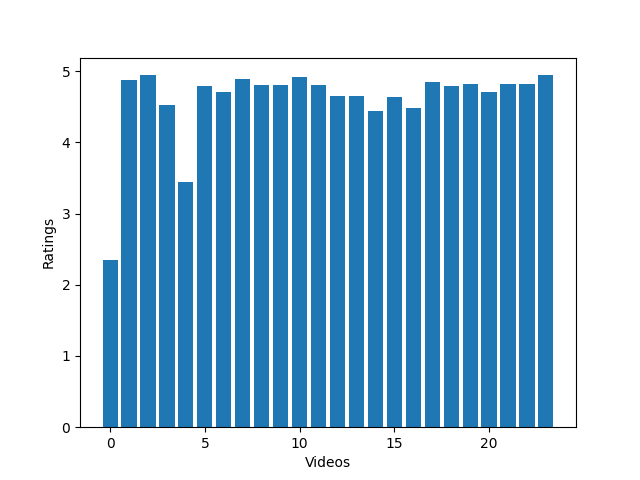
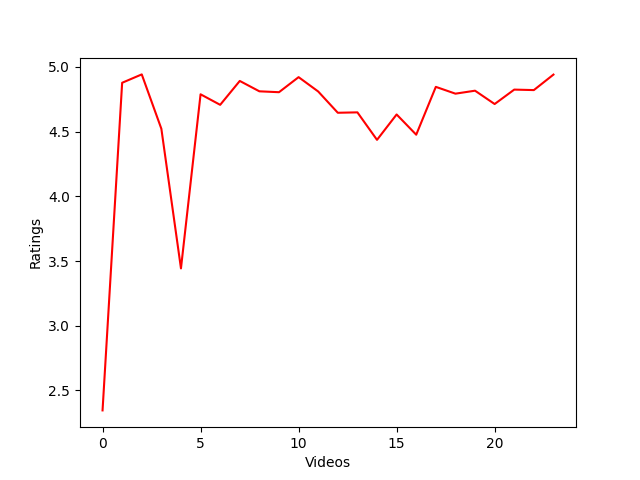
Added Tabs and Updated Graphs
Now all the tabs are working, they have their designated code segment area in main.py, and their background colors are also working. Also updated a bar graph to a line plot.

diff --git a/Main.py b/Main.py
@@ -519,54 +519,132 @@ class window :
         root = tk.Tk()
         root.geometry( "1280x720" )
         
+        
+        # Creating the notebook, that enables tabs
         my_notebook = ttk.Notebook( root )
         my_notebook.pack()
-            
-        my_frame1 = tk.Frame( my_notebook, width = 1280, height = 720, bg = "white" )
         
-        my_canvas = tk.Canvas( my_frame1, width = 1250, height = 720 )
-        my_canvas.pack( side = tk.LEFT, fill = tk.BOTH, expand = 1 )
+        # _____________Views Tab_________________#
         
-        my_scrollbar = ttk.Scrollbar( my_frame1, orient = tk.VERTICAL, command = my_canvas.yview )
+        base_frame_tab_1 = tk.Frame( my_notebook, width = 1280, height = 5000, bg = "#65A8E8" )
+        
+        # Adding a scrollbar to that tab
+        base_canvas_tab_1 = tk.Canvas( base_frame_tab_1, width = 1250, height = 5000 )
+        base_canvas_tab_1.pack( side = tk.LEFT, fill = tk.BOTH, expand = 1 )
+        my_scrollbar = ttk.Scrollbar( base_frame_tab_1, orient = tk.VERTICAL, command = base_canvas_tab_1.yview )
         my_scrollbar.pack( side = tk.RIGHT, fill = tk.Y )
+        base_canvas_tab_1.configure( yscrollcommand = my_scrollbar.set )
+        base_canvas_tab_1.bind( '<Configure>', lambda e : base_canvas_tab_1.configure( scrollregion = base_canvas_tab_1.bbox( "all" ) ) )
+        tab_frame_1 = tk.Frame( base_canvas_tab_1, width = 1280, height = 5000, bg = "#65A8E8" )
+        base_canvas_tab_1.create_window( (0, 0), window = tab_frame_1, anchor = "nw" )
+
+        #____Stuff in the tab___#
         
-        my_canvas.configure( yscrollcommand = my_scrollbar.set )
-        my_canvas.bind( '<Configure>', lambda e : my_canvas.configure( scrollregion = my_canvas.bbox( "all" ) ) )
+        bg_label_1 = tk.Label(tab_frame_1, text = 'Views Vs Videos Downloaded', bg = '#65A8E8', font = ("Calibre", 30))
+        bg_label_1.place(relx = 0.3, rely = 0.01)
+        views_graph_img = ImageTk.PhotoImage( Image.open( 'Assets/Graphs/views_bar_graph.png' ) )
+        views_graph_img_lbl = tk.Label( tab_frame_1, image = views_graph_img )
+        views_graph_img_lbl.place(relx = 0.25, rely = 0.03)
+
+        #___#
         
-        second_frame1 = tk.Frame( my_canvas, width = 1280, height = 720, bg = "white" )
+        # _______________Ratings Tab__________________#
         
-        my_canvas.create_window( (0, 0), window = second_frame1, anchor = "nw" )
-        
-        my_frame2 = tk.Frame( my_notebook, width = 1280, height = 720, bg = "white" )
-        
-        my_canvas2 = tk.Canvas( my_frame2, width = 1250, height = 720 )
-        my_canvas2.pack( side = tk.LEFT, fill = tk.BOTH, expand = 1 )
-        
-        my_scrollbar = ttk.Scrollbar( my_frame2, orient = tk.VERTICAL, command = my_canvas2.yview )
-        my_scrollbar.pack( side = tk.RIGHT, fill = tk.Y )
-        
-        my_canvas2.configure( yscrollcommand = my_scrollbar.set )
-        my_canvas2.bind( '<Configure>', lambda e : my_canvas2.configure( scrollregion = my_canvas2.bbox( "all" ) ) )
-        
-        second_frame2 = tk.Frame( my_canvas2, width = 1280, height = 720, bg = "white" )
-        
-        my_canvas2.create_window( (0, 0), window = second_frame2, anchor = "nw" )
-        
-        my_frame1.pack( fill = "both", expand = 1 )
-        my_frame2.pack( fill = "both", expand = 1 )
-        
-        my_notebook.add( my_frame1, text = "views" )
-        my_notebook.add( my_frame2, text = "ratings" )
+        base_frame_tab_2 = tk.Frame( my_notebook, width = 1280, height = 5000, bg = "#65A8E8" )
     
+        # Adding scrollbar to that tab
+        base_canvas_tab_2 = tk.Canvas( base_frame_tab_2, width = 1250, height = 5000 )
+        base_canvas_tab_2.pack( side = tk.LEFT, fill = tk.BOTH, expand = 1 )
+        my_scrollbar = ttk.Scrollbar( base_frame_tab_2, orient = tk.VERTICAL, command = base_canvas_tab_2.yview )
+        my_scrollbar.pack( side = tk.RIGHT, fill = tk.Y )
+        base_canvas_tab_2.configure( yscrollcommand = my_scrollbar.set )
+        base_canvas_tab_2.bind( '<Configure>', lambda e : base_canvas_tab_2.configure( scrollregion = base_canvas_tab_2.bbox( "all" ) ) )
+        tab_frame_2 = tk.Frame( base_canvas_tab_2, width = 1280, height = 5000, bg = "#65A8E8" )
+        base_canvas_tab_2.create_window( (0, 0), window = tab_frame_2, anchor = "nw" )
+
+        # ____Stuff in the tab___#
         
-        views_graph_img = ImageTk.PhotoImage(Image.open('Assets/Graphs/views_bar_graph.png'))
-        views_graph_img_lbl = tk.Label(second_frame1, image = views_graph_img)
-        views_graph_img_lbl.grid(row =0, column = 0, padx = 100, pady = 50)
+        bg_label_2 = tk.Label(tab_frame_2, text = 'Ratings Vs Videos Downloaded', bg = '#65A8E8', font = ("Calibre", 30))
+        bg_label_2.place(relx = 0.3, rely = 0.01)
+        ratings_graph_img = ImageTk.PhotoImage( Image.open( 'Assets/Graphs/ratings_bar_graph.png' ) )
+        ratings_graph_img_lbl = tk.Label( tab_frame_2, image = ratings_graph_img )
+        ratings_graph_img_lbl.place(relx = 0.25, rely = 0.03)
+
+        # ___#
+
+
+        # _______________Tab 3__________________#
         
-        ratings_graph_img = ImageTk.PhotoImage(Image.open('Assets/Graphs/ratings_bar_graph.png'))
-        ratings_graph_img_lbl = tk.Label(second_frame2, image = ratings_graph_img)
-        ratings_graph_img_lbl.grid(row =0, column = 0, padx = 100, pady = 50)
+        base_frame_tab_3 = tk.Frame( my_notebook, width = 1280, height = 5000, bg = "#65A8E8" )
+    
+        # Adding scrollbar to that tab
+        base_canvas_tab_3 = tk.Canvas( base_frame_tab_3, width = 1250, height = 5000 )
+        base_canvas_tab_3.pack( side = tk.LEFT, fill = tk.BOTH, expand = 1 )
+        my_scrollbar = ttk.Scrollbar( base_frame_tab_3, orient = tk.VERTICAL, command = base_canvas_tab_3.yview )
+        my_scrollbar.pack( side = tk.RIGHT, fill = tk.Y )
+        base_canvas_tab_3.configure( yscrollcommand = my_scrollbar.set )
+        base_canvas_tab_3.bind( '<Configure>', lambda e : base_canvas_tab_3.configure( scrollregion = base_canvas_tab_3.bbox( "all" ) ) )
+        tab_frame_3 = tk.Frame( base_canvas_tab_3, width = 1280, height = 5000, bg = "#65A8E8" )
+        base_canvas_tab_3.create_window( (0, 0), window = tab_frame_3, anchor = "nw" )
+
+        # ____Stuff in the tab___#
+
+        # ___#
+
+
+        # _______________Tab 4__________________#
         
+        base_frame_tab_4 = tk.Frame( my_notebook, width = 1280, height = 5000, bg = "#65A8E8" )
+    
+        # Adding scrollbar to that tab
+        base_canvas_tab_4 = tk.Canvas( base_frame_tab_4, width = 1250, height = 5000 )
+        base_canvas_tab_4.pack( side = tk.LEFT, fill = tk.BOTH, expand = 1 )
+        my_scrollbar = ttk.Scrollbar( base_frame_tab_4, orient = tk.VERTICAL, command = base_canvas_tab_4.yview )
+        my_scrollbar.pack( side = tk.RIGHT, fill = tk.Y )
+        base_canvas_tab_4.configure( yscrollcommand = my_scrollbar.set )
+        base_canvas_tab_4.bind( '<Configure>', lambda e : base_canvas_tab_4.configure( scrollregion = base_canvas_tab_4.bbox( "all" ) ) )
+        tab_frame_4 = tk.Frame( base_canvas_tab_4, width = 1280, height = 5000, bg = "#65A8E8" )
+        base_canvas_tab_4.create_window( (0, 0), window = tab_frame_4, anchor = "nw" )
+
+        # ____Stuff in the tab___#
+
+        # ___#
+
+
+        # _______________Tab 5__________________#
+
+        base_frame_tab_5 = tk.Frame( my_notebook, width = 1280, height = 5000, bg = "#65A8E8" )
+    
+        # Adding scrollbar to that tab
+        base_canvas_tab_5 = tk.Canvas( base_frame_tab_5, width = 1250, height = 5000 )
+        base_canvas_tab_5.pack( side = tk.LEFT, fill = tk.BOTH, expand = 1 )
+        my_scrollbar = ttk.Scrollbar( base_frame_tab_5, orient = tk.VERTICAL, command = base_canvas_tab_5.yview )
+        my_scrollbar.pack( side = tk.RIGHT, fill = tk.Y )
+        base_canvas_tab_5.configure( yscrollcommand = my_scrollbar.set )
+        base_canvas_tab_5.bind( '<Configure>', lambda e : base_canvas_tab_5.configure( scrollregion = base_canvas_tab_5.bbox( "all" ) ) )
+        tab_frame_5 = tk.Frame( base_canvas_tab_5, width = 1280, height = 5000, bg = "#65A8E8" )
+        base_canvas_tab_5.create_window( (0, 0), window = tab_frame_5, anchor = "nw" )
+
+        # ____Stuff in the tab___#
+
+        # ___#
+
+
+        #____________End of declaring Tabs_____________#
+        #___________Adding them to the notebook, and activating them_________#
+        
+        base_frame_tab_1.pack( fill = "both", expand = 1 )
+        base_frame_tab_2.pack( fill = "both", expand = 1 )
+        base_frame_tab_3.pack( fill = "both", expand = 1 )
+        base_frame_tab_4.pack( fill = "both", expand = 1 )
+        base_frame_tab_5.pack( fill = "both", expand = 1 )
+        
+        my_notebook.add( base_frame_tab_1, text = "views" )
+        my_notebook.add( base_frame_tab_2, text = "ratings" )
+        my_notebook.add( base_frame_tab_3, text = "tab3" )
+        my_notebook.add( base_frame_tab_4, text = "tab4" )
+        my_notebook.add( base_frame_tab_5, text = "tab5" )
+
         root.mainloop()
 
 def generate_vids() :
@@ -587,6 +665,8 @@ def generate_vids() :
 def main() :
     global again, playlist_URLS
     while again :
+        #Graphs.plot_ratings_vs_videos()
+        #Graphs.plot_views_vs_videos()
         again = False
         window.intro_win()  # gets the URL
         if TYPE == 'SINGLE' :

diff --git a/Graphs.py b/Graphs.py
@@ -26,7 +26,7 @@ def plot_views_vs_videos():
 	views_list[0] = 2346 # random value here
 
 	# plots a simple graph that is saved as png in Assets/Graphs/. This file can then be accessed by other files.
-	plt.bar(np.arange(len(views_list)), views_list)
+	plt.bar(np.arange(len(views_list)), views_list, color = 'green')
 	plt.savefig('Assets/Graphs/views_bar_graph.png')
 			
 
@@ -52,7 +52,8 @@ def plot_ratings_vs_videos():
 	views_list[0] = 2.346 # random value here
 
 	# plots a simple graph that is saved as png in Assets/Graphs/. This file can then be accessed by other files.
-	plt.bar(np.arange(len(views_list)), views_list)
+	plt.plot(np.arange(len(views_list)), views_list, color = 'red')
 	plt.savefig('Assets/Graphs/ratings_bar_graph.png')
 	
-	
+# plot_ratings_vs_videos()
+# plot_views_vs_videos()

diff --git a/README.md b/README.md
@@ -30,10 +30,10 @@ _Users can click on **One more** to download more videos_
 ![](https://github.com/KrishnarajT/IP-Project-Youtube-Video-Downloader/blob/main/Progress%20Images/12-11-20/Progress%20Screenshots%20(4).png)
 
 ## _Test Graph comparing video ratings vs videos_
-![](https://github.com/KrishnarajT/IP-Project-Youtube-Video-Downloader/blob/main/Progress%20Images/26-11-20/graphs%20test%20(1).png)
+![](https://github.com/KrishnarajT/IP-Project-Youtube-Video-Downloader/blob/main/Progress%20Images/06-12-20/Added%Tabs%and%Graphs.png)
 
 ## _Test Graph comparing video views vs videos_
-![](https://github.com/KrishnarajT/IP-Project-Youtube-Video-Downloader/blob/main/Progress%20Images/26-11-20/graphs%20test.png)
+![](https://github.com/KrishnarajT/IP-Project-Youtube-Video-Downloader/blob/main/Progress%20Images/06-12-20/Added%Tabs%and%Graphs%2.png)
 
 
 # Things remaining to do
